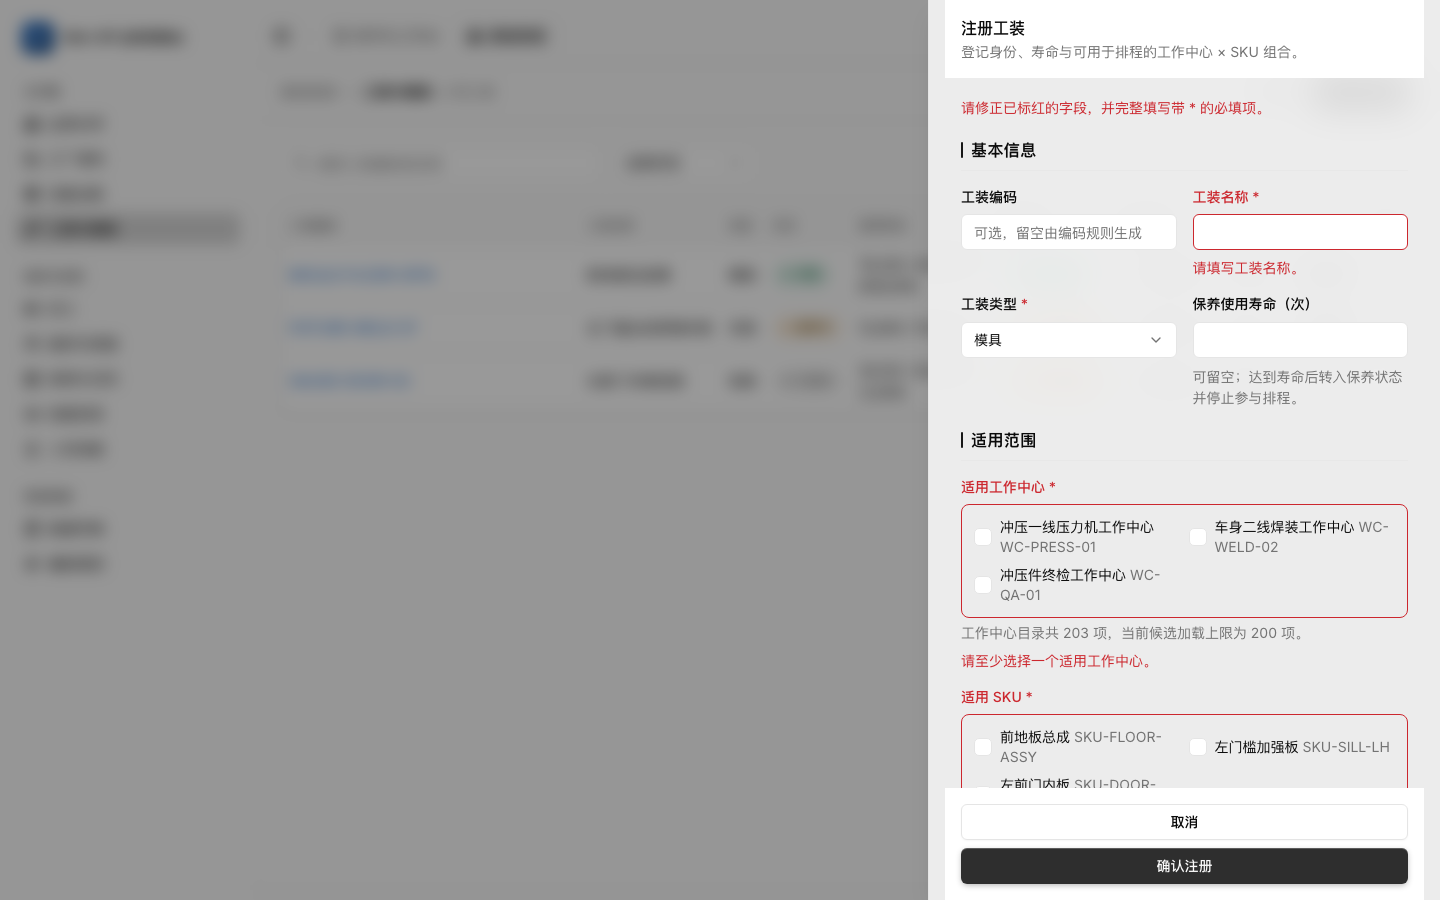
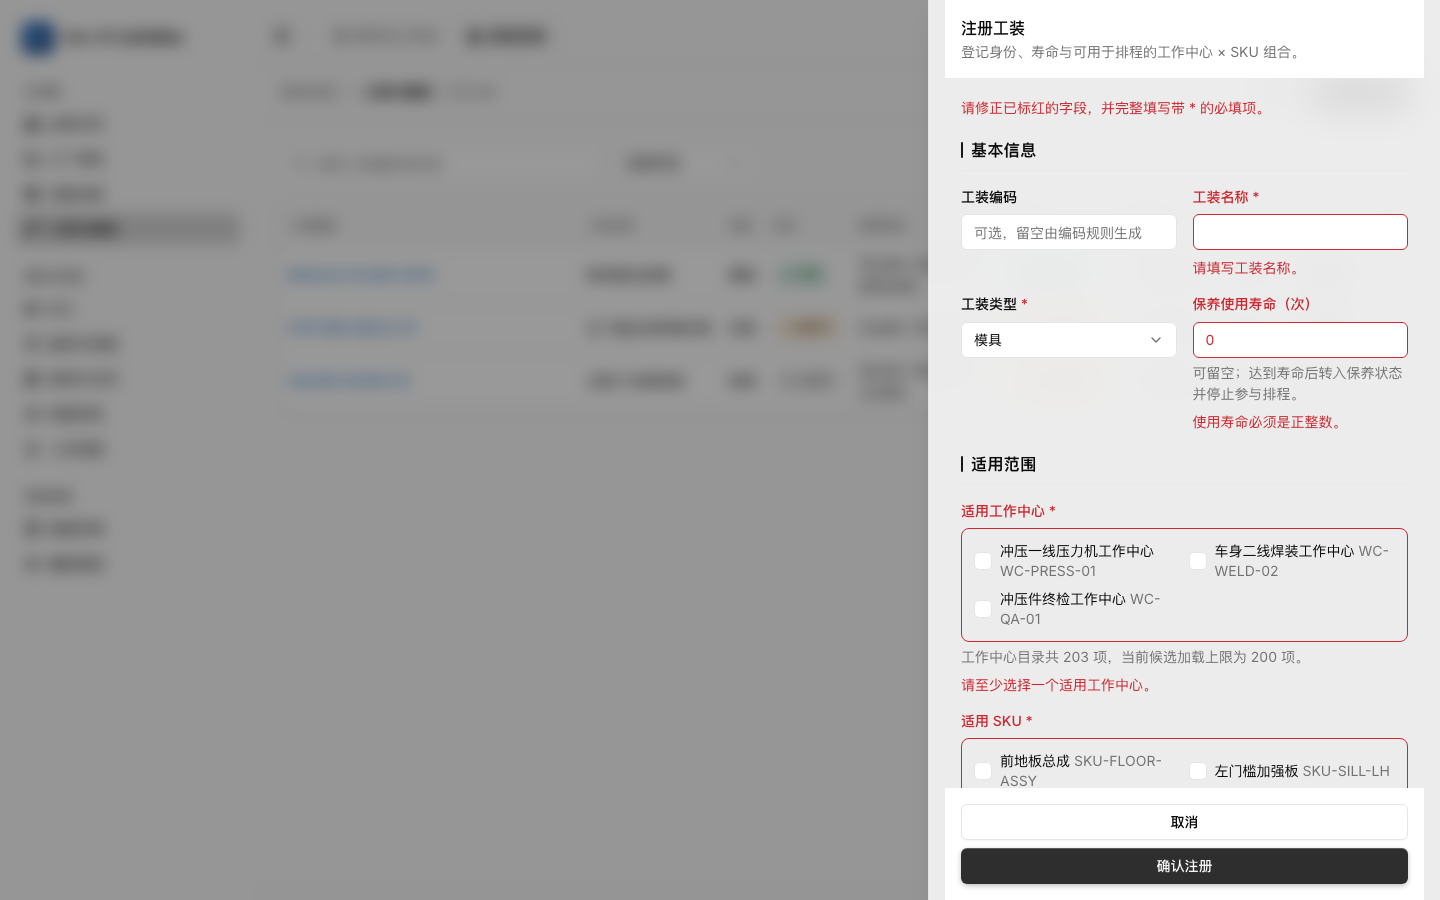
fix(console): 关闭工装维护台新审核阻断

diff --git a/frontend/apps/business-console/src/pages/master-data/tooling.vue b/frontend/apps/business-console/src/pages/master-data/tooling.vue
@@ -488,7 +488,7 @@ const listErrorMessage = computed(() =>
 
     <NvSheet v-if="canManage" v-model:open="registerOpen">
       <NvSheetContent class="w-full overflow-y-auto sm:max-w-2xl">
-        <form class="grid gap-5" @submit.prevent="submitRegister">
+        <form class="grid gap-5" novalidate @submit.prevent="submitRegister">
           <NvSheetHeader>
             <NvSheetTitle>注册工装</NvSheetTitle>
             <NvSheetDescription
@@ -520,7 +520,6 @@ const listErrorMessage = computed(() =>
                 id="tooling-name"
                 v-model="registerForm.name"
                 :invalid="Boolean(registerNameError)"
-                :class="registerNameError ? '!border-destructive' : undefined"
               />
               <NvFieldError v-if="registerNameError" :errors="[registerNameError]" />
             </NvField>
@@ -531,10 +530,7 @@ const listErrorMessage = computed(() =>
                 </span>
               </NvFieldLabel>
               <NvSelect v-model="registerForm.toolingType">
-                <NvSelectTrigger
-                  :invalid="Boolean(registerTypeError)"
-                  :class="registerTypeError ? '!border-destructive' : undefined"
-                >
+                <NvSelectTrigger :invalid="Boolean(registerTypeError)">
                   <NvSelectValue />
                 </NvSelectTrigger>
                 <NvSelectContent>
@@ -561,7 +557,6 @@ const listErrorMessage = computed(() =>
                 min="1"
                 step="1"
                 :invalid="Boolean(registerLifeError)"
-                :class="registerLifeError ? '!border-destructive' : undefined"
               />
               <NvFieldDescription
                 >可留空；达到寿命后转入保养状态并停止参与排程。</NvFieldDescription
@@ -660,13 +655,7 @@ const listErrorMessage = computed(() =>
       <NvDialogContent>
         <NvDialogHeader>
           <NvDialogTitle>{{ statusActionLabel }}</NvDialogTitle>
-          <NvDialogDescription>
-            {{
-              nextStatus === 'available'
-                ? '完成保养后将清零累计使用次数，请说明本次状态变更原因。'
-                : '请说明本次状态变更原因。'
-            }}
-          </NvDialogDescription>
+          <NvDialogDescription>请说明本次状态变更原因。</NvDialogDescription>
         </NvDialogHeader>
         <NvField :data-invalid="statusReasonInvalid">
           <NvFieldLabel for="tooling-status-reason">
@@ -678,7 +667,6 @@ const listErrorMessage = computed(() =>
             id="tooling-status-reason"
             v-model="statusReason"
             :invalid="statusReasonInvalid"
-            :class="statusReasonInvalid ? '!border-destructive' : undefined"
           />
           <NvFieldError v-if="statusReasonInvalid" :errors="['请填写状态变更原因。']" />
         </NvField>
@@ -712,7 +700,6 @@ const listErrorMessage = computed(() =>
             id="tooling-retire-reason"
             v-model="statusReason"
             :invalid="statusReasonInvalid"
-            :class="statusReasonInvalid ? '!border-destructive' : undefined"
           />
           <NvFieldDescription>请说明本次退役原因。</NvFieldDescription>
           <NvFieldError v-if="statusReasonInvalid" :errors="['请填写退役原因。']" />
@@ -761,7 +748,6 @@ const listErrorMessage = computed(() =>
             min="1"
             step="1"
             :invalid="Boolean(usageValidationMessage)"
-            :class="usageValidationMessage ? '!border-destructive' : undefined"
           />
           <NvFieldError v-if="usageValidationMessage" :errors="[usageValidationMessage]" />
         </NvField>

diff --git a/frontend/apps/business-console/e2e/issue1974-tooling-visual.spec.ts b/frontend/apps/business-console/e2e/issue1974-tooling-visual.spec.ts
@@ -78,7 +78,9 @@ test('工装维护台真实浏览器视觉核验', async ({ page }) => {
 
   await page.getByRole('button', { name: '注册工装' }).click()
   const nameInput = page.getByLabel('工装名称 *')
+  const lifeInput = page.getByLabel('保养使用寿命（次）')
   const nameFrame = nameInput.locator('..')
+  const lifeFrame = lifeInput.locator('..')
   const nameLabel = page.locator('label[for="tooling-name"] > span')
   const firstCandidate = page.getByRole('checkbox').first().locator('..')
   const beforeBorder = await nameFrame.evaluate((element) => getComputedStyle(element).borderColor)
@@ -86,9 +88,15 @@ test('工装维护台真实浏览器视觉核验', async ({ page }) => {
   const beforeCandidate = await firstCandidate.evaluate(
     (element) => getComputedStyle(element).color,
   )
+  const beforeLifeBorder = await lifeFrame.evaluate(
+    (element) => getComputedStyle(element).borderColor,
+  )
+  await lifeInput.fill('0')
   await page.getByRole('button', { name: '确认注册' }).click()
   await expect(page.getByText('请填写工装名称。', { exact: true })).toBeVisible()
+  await expect(page.getByText('使用寿命必须是正整数。', { exact: true })).toBeVisible()
   await expect(nameFrame).toHaveAttribute('data-invalid', 'true')
+  await expect(lifeFrame).toHaveAttribute('data-invalid', 'true')
   await expect
     .poll(() => nameFrame.evaluate((element) => getComputedStyle(element).borderColor))
     .not.toBe(beforeBorder)
@@ -98,6 +106,9 @@ test('工装维护台真实浏览器视觉核验', async ({ page }) => {
   await expect
     .poll(() => firstCandidate.evaluate((element) => getComputedStyle(element).color))
     .toBe(beforeCandidate)
+  await expect
+    .poll(() => lifeFrame.evaluate((element) => getComputedStyle(element).borderColor))
+    .not.toBe(beforeLifeBorder)
   await page.screenshot({
     path: path.join(SCREENSHOT_DIR, '03-register-validation.png'),
   })
@@ -117,6 +128,13 @@ test('工装维护台真实浏览器视觉核验', async ({ page }) => {
     .poll(() => statusFrame.evaluate((element) => getComputedStyle(element).borderColor))
     .not.toBe(statusBorderBefore)
   await statusDialog.getByRole('button', { name: '取消' }).click()
+
+  await page.getByRole('button', { name: '工装操作 FIXTURE-WELD-07' }).click()
+  await page.getByRole('menuitem', { name: '完成保养' }).click()
+  const completionDialog = page.getByRole('dialog')
+  await expect(completionDialog).toContainText('请说明本次状态变更原因。')
+  await expect(completionDialog).not.toContainText('完成保养后将清零累计使用次数')
+  await completionDialog.getByRole('button', { name: '取消' }).click()
 
   await page.getByRole('button', { name: '登记使用' }).first().click()
   const usageDialog = page.getByRole('dialog')

diff --git a/frontend/apps/business-console/src/pages/master-data/tooling.test.ts b/frontend/apps/business-console/src/pages/master-data/tooling.test.ts
@@ -39,6 +39,17 @@ vi.mock('@/composables/useBusinessTooling', () => ({
         workCenterCodes: ['WC-PRESS'],
         skuCodes: ['SKU-FLOOR', 'SKU-SILL'],
       },
+      {
+        code: 'FIXTURE-002',
+        name: '左门槛总成焊接夹具',
+        toolingType: 'fixture',
+        status: 'maintenance',
+        maintenanceLifeCount: 15000,
+        usageCount: 12640,
+        isSchedulable: false,
+        workCenterCodes: ['WC-PRESS'],
+        skuCodes: ['SKU-SILL'],
+      },
     ]),
     toolingTotal: computed(() => 1),
     toolingPending: shallowRef(false),
@@ -183,7 +194,19 @@ describe('工装与模具维护台', () => {
 
     expect(wrapper.find('form').exists()).toBe(false)
     await button(wrapper, '注册工装')!.trigger('click')
-    expect(wrapper.find('form').exists()).toBe(true)
+    const form = wrapper.find('form')
+    expect(form.exists()).toBe(true)
+    expect(form.attributes('novalidate')).toBeDefined()
+  })
+
+  it('未达到寿命时完成保养不承诺清零累计使用次数', async () => {
+    const wrapper = mount(ToolingPage, { global: { stubs } })
+    await flushPromises()
+
+    await button(wrapper, '完成保养')!.trigger('click')
+
+    expect(wrapper.text()).toContain('请说明本次状态变更原因。')
+    expect(wrapper.text()).not.toContain('完成保养后将清零累计使用次数')
   })
 
   it('注册提交后同时展示校验汇总与对应字段错误', async () => {

diff --git a/frontend/packages/ui/src/components/pc/input/NvInvalidControls.test.ts b/frontend/packages/ui/src/components/pc/input/NvInvalidControls.test.ts
@@ -1,0 +1,28 @@
+import { mount } from '@vue/test-utils'
+import { describe, expect, it } from 'vitest'
+import { defineComponent } from 'vue'
+import NvInput from './NvInput.vue'
+import NvSelect from '../select/NvSelect.vue'
+import NvSelectTrigger from '../select/NvSelectTrigger.vue'
+
+describe('NvUI invalid controls', () => {
+  it('gives NvInput an invalid utility that survives host cascade layers', () => {
+    const wrapper = mount(NvInput, { props: { invalid: true } })
+    const frame = wrapper.get('[data-slot="nv-input"]')
+
+    expect(frame.attributes('data-invalid')).toBe('true')
+    expect(frame.classes()).toContain('data-[invalid=true]:border-destructive')
+  })
+
+  it('gives NvSelectTrigger the same invalid utility contract', () => {
+    const Host = defineComponent({
+      components: { NvSelect, NvSelectTrigger },
+      template: '<NvSelect><NvSelectTrigger invalid /></NvSelect>',
+    })
+    const wrapper = mount(Host)
+    const trigger = wrapper.get('[data-slot="nv-select-trigger"]')
+
+    expect(trigger.attributes('data-invalid')).toBe('true')
+    expect(trigger.classes()).toContain('data-[invalid=true]:border-destructive')
+  })
+})

diff --git a/frontend/packages/ui/src/components/pc/select/NvSelectTrigger.vue b/frontend/packages/ui/src/components/pc/select/NvSelectTrigger.vue
@@ -20,7 +20,7 @@ const forwarded = useForwardProps(delegated)
     v-bind="forwarded"
     :class="
       cn(
-        'nv-strigger flex h-9 w-full items-center justify-between gap-2 rounded-md border border-input bg-card px-3 text-sm outline-none select-none data-placeholder:text-muted-foreground disabled:cursor-not-allowed disabled:opacity-50 dark:bg-input/30 [&>span]:line-clamp-1 [&_svg]:pointer-events-none [&_svg]:size-4 [&_svg]:shrink-0',
+        'nv-strigger flex h-9 w-full items-center justify-between gap-2 rounded-md border border-input bg-card px-3 text-sm outline-none select-none data-placeholder:text-muted-foreground data-[invalid=true]:border-destructive disabled:cursor-not-allowed disabled:opacity-50 dark:bg-input/30 [&>span]:line-clamp-1 [&_svg]:pointer-events-none [&_svg]:size-4 [&_svg]:shrink-0',
         props.class,
       )
     "
